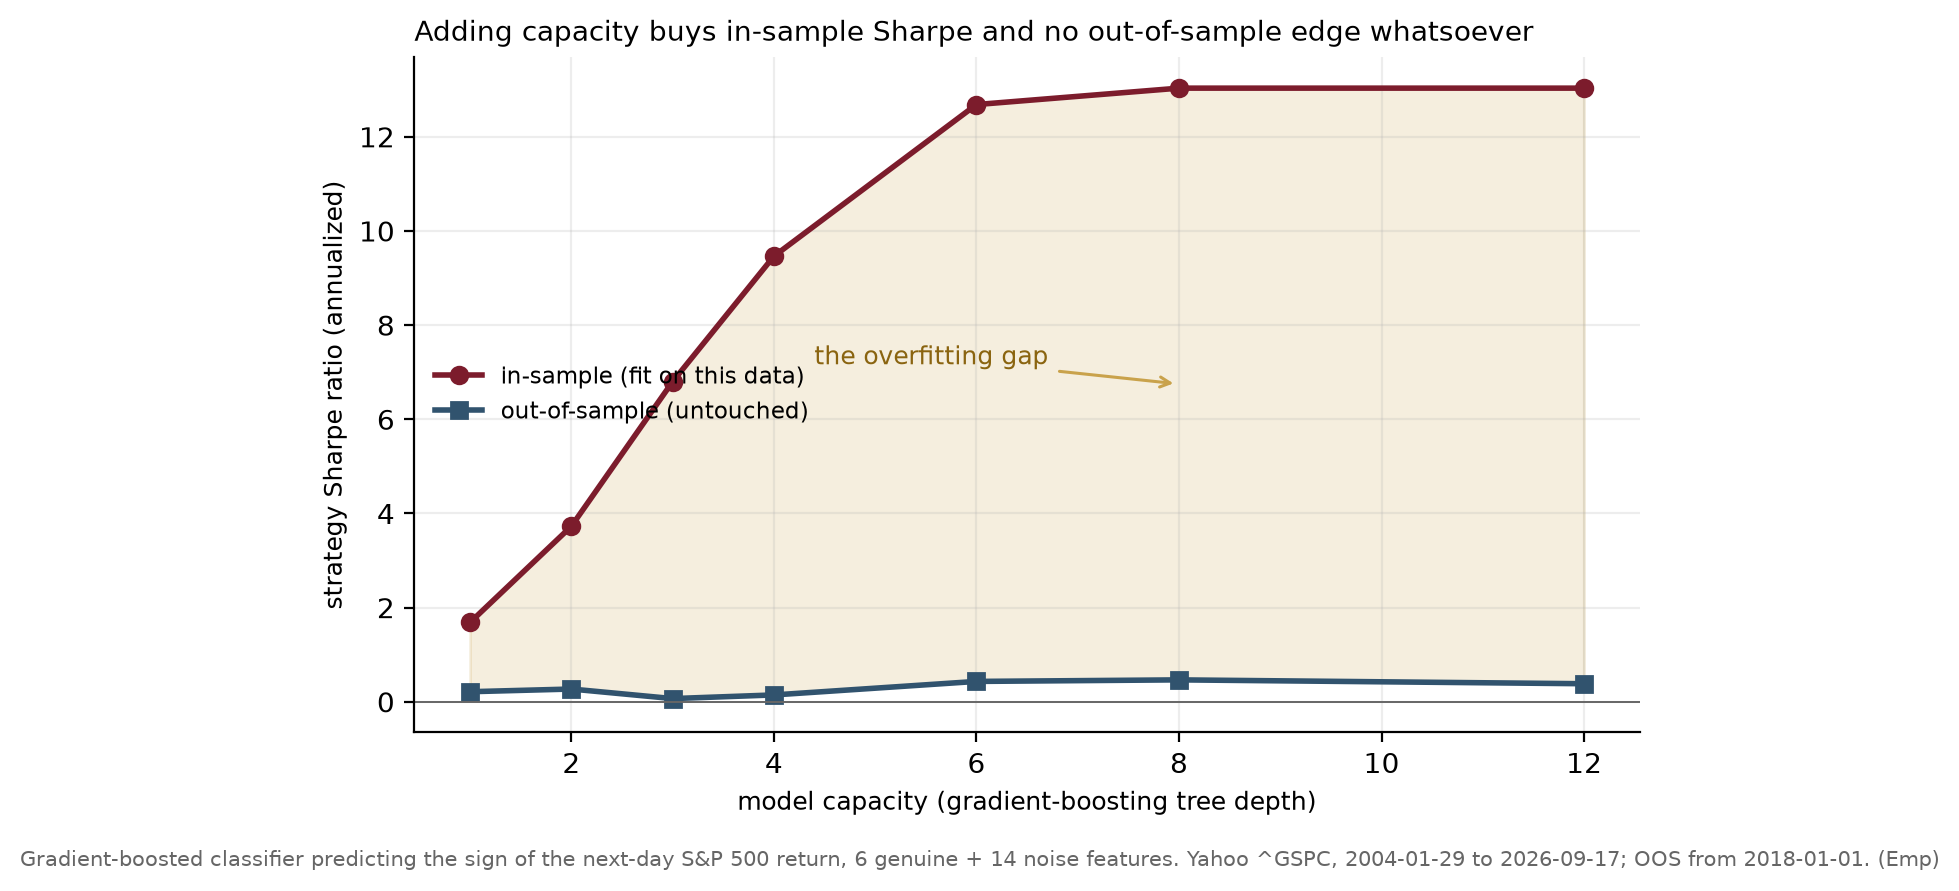
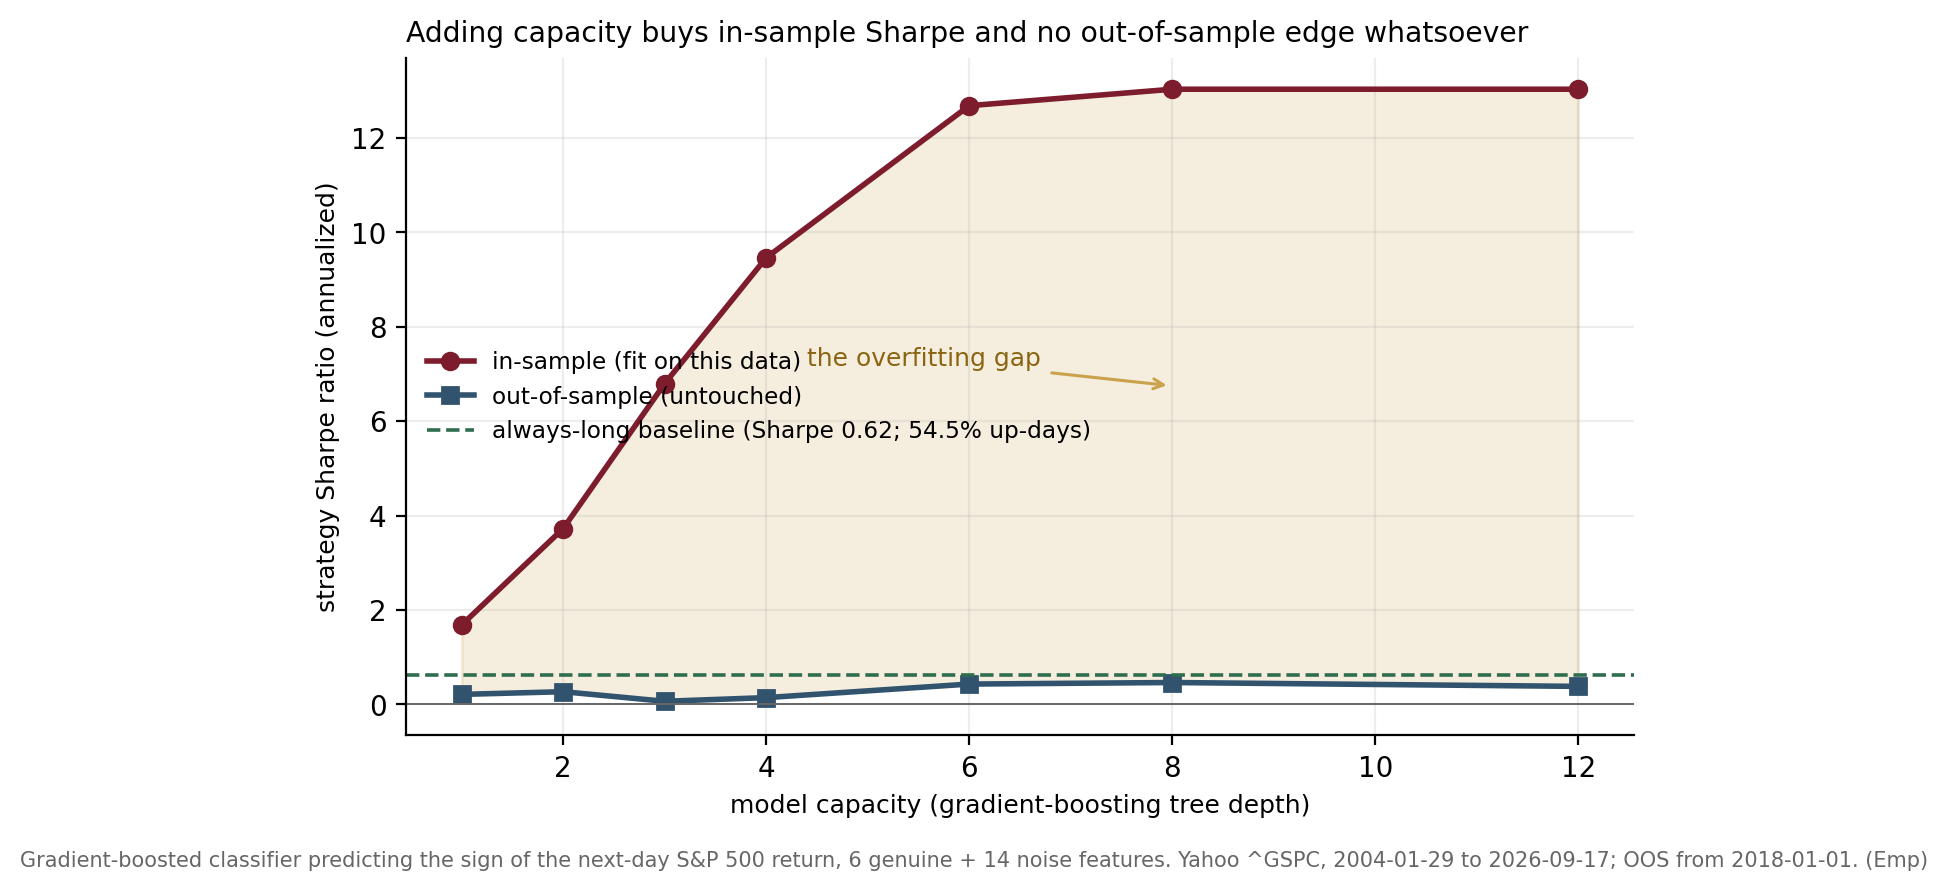
v1.2 Teil D + release: process fixes, ERRATA/KNOWN-ISSUES, version bump
- ERRATA.md: v1.2 section documenting P1-P5 (citations), R1-R11 (content),
  S1-S4 (guard & reproducibility), with the open items called out.
- KNOWN-ISSUES.md (new): open/disputed/won't-fix register with ID, paper,
  status, and reason — B12 (VIX vs ~12% ATM), the md<->tex divergence (C4),
  the Reg-NMS world-state policy, and the ~40 N10 findings (seed = T19 triage).
- README house rules: added "every claim about a source is checked against
  that source" (D3); the reproducibility rule now carries the 82/7/3 free-data
  count and defines reproducibility over printed numbers, not PNG bytes; links
  KNOWN-ISSUES.md.
- Figures rebuilt from free data: fig_multiple_testing.png (finite-N curve),
  fig_g3_overfit.png (always-long baseline). CBOE-snapshot figures are not
  regenerated here (they need the non-redistributed licensed snapshot).
- Version bump to v1.2 (2026-09-25): CITATION.cff, README, CHANGELOG (with an
  "audited by" line, D4); last_updated bumped on the 13 corrected papers.

diff --git a/ERRATA.md b/ERRATA.md
@@ -311,3 +311,95 @@ with the repository's own code on free data before being applied.
 *Not adopted from the second audit:* N8 (the "byte-identical" wording — flagged, not re-verified),
 N9 (Markdown and PDF agree on every *corrected* claim but differ in overall length), and the ~40
 open high-severity findings outside K1–K14 (N10), which remain a separate work item.
+
+---
+
+## v1.2 (2026-09-25) — corrections from a third external audit
+
+A third external audit re-cloned the repository at `v1.1` (tag `v1.1` = 9eab2d6), re-ran
+`make verify` and an independent check suite, recomputed every quoted number, and pulled the
+primary sources for each literature and world-state claim. Every item below was reproduced *by us*
+with the repository's own code, an independent recomputation, or a primary source with a URL and
+access date, and each is now guarded (recomputed, not merely grepped) in `prove_fixes.py` or
+`verify_listings.py`.
+
+### P. Literature citations (checked against the primary source)
+
+- **P1 · Technical Analysis §3, §8 (STW 1999).** "The 1992 result shrank once transaction costs and
+  data-snooping corrections were applied (Sullivan, Timmermann & White 1999)" conflated two findings.
+  Split: the transaction-cost caveat is **Bessembinder & Chan (1998)**; STW's best rule *survived*
+  White's Reality Check in-sample and failed only *out-of-sample* 1987–96. Evidence table refined.
+- **P2 · Technical Analysis §5 evidence table (Jegadeesh & Titman 1993).** Short-horizon index
+  mean-reversion was attributed to Jegadeesh & Titman (1993), which is the *intermediate-horizon
+  momentum* paper on single stocks. Re-attributed to **Jegadeesh (1990) / Lehmann (1990)**; the index
+  sign is declared our own measurement. References added.
+- **P3 · Flow Landscape §3.2 (Almgren et al. 2005).** "a power close to 0.6, consistent with the
+  square root" reversed the source, which *rejects* β = ½ at the 95% level in favour of a 3/5 power
+  (PDF, p. 20: "the square-root model β = 1/2 is rejected"). Reworded to "concave but steeper than
+  the square root."
+- **P4 · Dealer Flows / GEX §5.4 (Golez & Jackwerth 2012).** The paper's "pinning conditional on the
+  sign of dealer gamma (long gamma pins, short gamma anti-pins)" is not G&J's finding. G&J document
+  pinning at *serial-futures-option* expiry and *anti-cross-pinning* before *index-option* expiry,
+  driven by delta-hedge rebalancing and retail ITM reselling. Restated; the gamma-sign conditionality
+  is now marked a hypothesis from **Avellaneda & Lipkin (2003)**. Reference added.
+- **P5 · Dealer Flows / GEX §8 (0DTE share).** "0DTE at roughly 62% of SPX option volume year-to-date
+  through August 2026 (CBOE 2023)" is impossible from a 2023 source. Corrected to CBOE's record
+  **62.4% single-month share for August 2025** (Cboe Insights, 2 Sep 2025, accessed 25 Sep 2026);
+  reference added; the ~17% 2020 baseline stays with Cboe 2023.
+
+### R. Content errors (each recomputed)
+
+- **R1 · Macro Foundations §6 — yield-curve episodes.** Prose listed 1978, **1980**, 1988, 2000,
+  2005–06, 2019. The pre-committed rule dates 1978 (one 823-day episode, *no* separate 1980), 1988,
+  **1998** (lag 35 mo), 2000, 2005, a 2019 blip, and the open **2022** episode. Lag range 7→**35**
+  months; 2022 named as the counterexample. Matches `fig_e1_yield_curve.py`.
+- **R2 · Vol Modeling §8.4 — SVI butterfly.** "strictly positive everywhere" was a scan-range
+  artifact: with the printed params g(k) turns **negative in the extrapolated call wing**
+  (min ≈ −0.05 near k = 0.31, negative on k ∈ [0.18, 0.52]). Claim confined to the traded strikes;
+  `fig_svi_fit.py` now scans and plots the wing and labels it honestly.
+- **R3 · Greeks (third-order) §7 — gamma drift.** "+6.9% / day" mixed a per-**calendar**-day color
+  with a **trading**-day maturity. On one clock (trading days) the one-week gamma goes 0.141 → 0.158,
+  **+11.8%** per session; book mis-size +11.8%. `fig_to_worked_examples.py` revalues one trading day.
+- **R4 · Greeks (third-order) §7 — speed estimate.** "under-predicts the true 0.130" → **over**-predicts
+  (0.138 > 0.130).
+- **R5 · Greeks (second-order) §5 — ATM vomma sign.** "d₂ ≈ −d₁, product negative" holds only at the
+  *forward*-ATM. At the *spot*-ATM strike with r = 4% both d₁ (+0.12) and d₂ (+0.04) are positive, so
+  d₁·d₂ > 0 and vomma is tiny and **positive** (+0.00004) — consistent with the printed value.
+- **R6 · Backtesting §2.3 — expected-max Sharpe.** Attributed σ_SR·√(2 ln N) to Bailey et al. while
+  quoting ≈1.45, which is the finer **Bailey & López de Prado (2014)** finite-N value (1.46).
+  √(2 ln N) (1.66) is now given only as the asymptotic upper bound; finite-N curve added to Figure 1;
+  DSR reference added.
+- **R7 · Overfitting §9.1 — DSR autocorrelation.** `deflated_sharpe` never forwarded `rho` to `psr`,
+  so the Lo (2002) correction could not reach the DSR. Signature extended and `rho` forwarded;
+  `verify_listings.py` now checks DSR(ρ=0.2) < DSR(ρ=0).
+- **R8 · ML Strategy §2 — baseline.** 52% OOS accuracy is below the **54.5% majority-class
+  ("always-long") baseline** (OOS Sharpe 0.62), i.e. worse than no model, not "a coin flip with a
+  tailwind." `fig_g3_overfit.py` draws the baseline.
+- **R9 · Research §6.3 — vol-matched Sharpe.** Sharpe is scale-invariant, so "vol-matched Sharpe"
+  (0.945 vs 0.941) is just Sharpe; the real difference is the Calmar. Reworded (.md + .tex).
+- **R10 · Stale conclusions.** Research abstract now states C4 *fails* the pre-registered Clark-West
+  gate (.md + .tex); Macro Regimes §9.1 confined to the post-1990 subsample; Paper-to-Strategy §3.4
+  marks the fragility prior contested (Chen & Zimmermann); Backtesting §2.6 notes the gross Sharpe
+  was not significant to begin with.
+- **R11 · Greeks & Hedging §10 — vanna/charm identity.** The listing printed both as −0.00057
+  (5 places). Now printed to 6 places: vanna −0.000574, charm −0.000566. Added to
+  `verify_listings.py`.
+
+### S. Regression guard & reproducibility
+
+- **S1 · `prove_fixes.py` now recomputes.** The v1.2 numbers (R2/R3/R5/R6) are re-derived and
+  compared to the paper; the previously-unanchored v1.1 fixes **K1, K5, K8, K-M04, N5c** are now
+  anchored (26 → 41 checks).
+- **S2 · `verify_listings.py` coverage.** The L2-greeks-and-hedging listing is executed (R11), and a
+  coverage audit accounts for all nine papers with a python block (6 exercised / 1 network /
+  2 fragment) so coverage cannot silently regress.
+- **S3 · "byte-identical" retired (supersedes N8).** `requirements.txt` no longer claims byte-identical
+  PNGs — the committed PNGs were built across matplotlib 3.10.8 and 3.11.1, and PNG bytes depend on
+  the freetype build. Reproducibility is defined over the printed **numbers** (`make verify`).
+- **S4 · `.gitignore` snapshot paths.** Fixed the stale `03-options/04-volatility` paths to the
+  renumbered `02-options/03-volatility`, so the licensed CBOE snapshots are ignored again.
+
+*Open / not closed in v1.2:* the md↔tex divergence of the research paper (one-source build, tracked in
+`KNOWN-ISSUES.md`), the ~40 open findings outside K1–K14 (now listed in `KNOWN-ISSUES.md`), and
+B12 (VIX 17.7 vs the ~12% 30-day ATM read of §7, which needs the non-redistributed chain snapshot to
+resolve; also in `KNOWN-ISSUES.md`).

diff --git a/KNOWN-ISSUES.md b/KNOWN-ISSUES.md
@@ -1,0 +1,26 @@
+# Known issues
+
+Open items the authors already consider questionable or unresolved, kept visible on purpose. An
+[ERRATA.md](ERRATA.md) entry is a *fixed* error; a known issue is one that is **open, disputed, or a
+deliberate won't-fix**. Each entry carries an ID, the paper and section, the statement at issue, a
+status, and the reason. Papers reference an item inline as `[KI-…]`.
+
+Status legend: **open** (real, not yet fixed) · **disputed** (evidence points both ways) ·
+**wontfix** (acknowledged, deliberately not changed, with a reason) · **tracking** (structural work
+item).
+
+| ID | Paper · section | Issue | Status | Reason / plan |
+|---|---|---|---|---|
+| KI-01 | 03-volatility/L2-vol-surface-vix-complex §7 | The VIX (17.71 on 2026-09-16) is said to sit several points above the "~12% 30-day ATM SPX vol" of Figure 1, explained by skew alone. With VIX9D = 17.40 that day, a 30-day ATM of 12% implies a ~5.4-point skew premium, which is high (typical 2–4). | **open** | Cannot resolve without the licensed, non-redistributed CBOE chain snapshot. Fix: compare the snapshot timestamp and VIX at the *same* instant, recompute ATM-IV from the chain independently (VIX-strip vs ATM straddle), and split the gap into skew and residual. (Audit B12.) |
+| KI-02 | research/volatility-managed-strategies | The paper exists as two texts: `*.md` (14 sections, ~6,144 words) and `*.tex`/PDF (9 sections, ~5,455 words). They agree on the *corrected numbers* but differ in structure and length, so every fix must be made twice. | **tracking** | Move to one source: either `md → pandoc → PDF` with a template, or `.tex` as source with `.md` generated from it, and mark the other "draft, superseded". Corrected claims are kept in sync in the interim. (Audit C4.) |
+| KI-03 | Reg NMS world-state — 05-market-mechanics/L1-how-markets-move §3.1 | Any anchor on a real-world date (e.g. the Reg NMS half-cent tick compliance date) needs a dated source beside it or an expiry, or the regression guard will freeze a value the world has moved past. | **tracking** | Policy: world-state claims carry a URL + access date in `SOURCES` and are re-checked at each release, not pinned by a text anchor. |
+| KI-N10 | series-wide | ~40 open high-severity findings outside K1–K14, referenced in ERRATA (N10) as "a separate work item." A third-party check suite (T19) triaged 23 of them; the full triaged table is the intended seed for this list. | **open** | Import the T19 triage table here (ID, paper, statement, status, reason) and add an inline `[KI-…]` marker in each affected paper. Until imported, the count (~40) is disclosed but the items are not individually listed here. |
+
+## How this list is maintained
+
+- A new finding starts here as **open**. It moves to [ERRATA.md](ERRATA.md) when fixed and verified,
+  or to **wontfix** with a written reason.
+- An item is only marked fixed once it is reproduced by the repo's own code, an independent
+  recomputation, or a primary source — the same bar as ERRATA.
+- The count in the README's house rules and this table must agree; a bare "~40 open" with no list is
+  what this file exists to prevent.

diff --git a/README.md b/README.md
@@ -6,7 +6,7 @@ This library is a set of original scientific papers written by Jonas Löffler (`
 
 > **Disclaimer.** These are research and educational documents, **not investment advice**, not a recommendation or solicitation to trade any security, and not a statement of the views of any employer. Any rule or threshold shown (e.g. a volatility cut-off) is an illustration of a method, not a signal to act on. Trading options and derivatives involves substantial risk of loss. You are responsible for your own decisions.
 
-**Version & corrections.** Series **v1.1** (2026-09-24). Found errors are fixed in the open — see [CHANGELOG.md](CHANGELOG.md) and [ERRATA.md](ERRATA.md). Licensing: papers and figures under [CC BY 4.0](LICENSE); code under [MIT](LICENSE-CODE).
+**Version & corrections.** Series **v1.2** (2026-09-25). Found errors are fixed in the open — see [CHANGELOG.md](CHANGELOG.md) and [ERRATA.md](ERRATA.md). Licensing: papers and figures under [CC BY 4.0](LICENSE); code under [MIT](LICENSE-CODE).
 
 ## Difficulty badges
 
@@ -80,9 +80,10 @@ The library holds 25 papers. The core is a program of 22 documents across seven 
 ## House rules for the original papers
 
 - **No claim is "validated" without an out-of-sample test.** External sources make a claim *plausible*, never *confirmed*; only an own reproducible result with an OOS split earns the stronger word.
-- **Every empirical figure is reproducible** from free data (Yahoo, FRED, CBOE, CFTC) with the `figures/*.py` script beside it; downloaded data is cached so figures are stable offline.
+- **Every empirical *number* is reproducible** from free data (Yahoo, FRED, CBOE, CFTC) with the `figures/*.py` script beside it; downloaded data is cached so figures rebuild offline. Concretely, on an offline fresh clone `make verify` rebuilds **82 of 92** figures; **7** need a licensed CBOE option-chain snapshot (re-fetched at run time, not redistributed) and **3** need private or one-off inputs, and those are declared as `SKIPPED`. Reproducibility is defined over the printed **numbers**, not PNG bytes (which depend on the matplotlib/freetype build).
+- **Every claim about a source is checked against that source.** Any statement about a regulation, a market-structure fact, or another study is verified against the primary source, which is cited with a URL, an access date, and — where possible — the quoted passage of "what it actually finds." A source makes a claim *plausible*, never *confirmed*.
 - **Pre-registration and direction checks.** Effect sizes and out-of-sample splits are fixed before the test; the sign of the data is checked against the sign of the claim before the claim is made.
-- **Errata over silent edits.** When a number is wrong, it is corrected in [ERRATA.md](ERRATA.md), not quietly swapped.
+- **Errata over silent edits.** When a number is wrong, it is corrected in [ERRATA.md](ERRATA.md), not quietly swapped; open, disputed, and won't-fix items are listed in [KNOWN-ISSUES.md](KNOWN-ISSUES.md).
 - **Not investment advice.** These are research and educational documents.
 
 ## Data license

diff --git a/CHANGELOG.md b/CHANGELOG.md
@@ -4,6 +4,34 @@ All notable changes to the Trading Library paper series are recorded here.
 The series is versioned as a whole; corrections to individual claims are itemised
 in [ERRATA.md](ERRATA.md). Dates are ISO (YYYY-MM-DD).
 
+## v1.2 — 2026-09-25
+
+Corrections from a third independent audit (fresh clone of tag `v1.1` = 9eab2d6;
+`make verify` 82/10/0 offline and 89/3/0 online; an independent check suite;
+recomputation of every quoted number; primary sources pulled for each literature
+and world-state claim). Itemised in [ERRATA.md](ERRATA.md) as P1–P5 (citations),
+R1–R11 (content), S1–S4 (guard & reproducibility).
+
+- **Citations (P1–P5).** Five literature/source citations corrected against their
+  primary sources: STW 1999 (split from Bessembinder & Chan 1998), Jegadeesh &
+  Titman 1993 → Jegadeesh 1990 / Lehmann 1990, Almgren 2005 (rejects β=½),
+  Golez & Jackwerth 2012 (restated), and the 0DTE 62% share (CBOE, Aug 2025).
+- **Content (R1–R11).** Yield-curve episodes; SVI butterfly wing; gamma-drift
+  clock (+11.8%); ATM-vomma sign; speed over/under; Bailey–LdP finite-N Sharpe;
+  DSR autocorrelation pass-through; ML majority-class baseline (54.5%); vol-matched
+  Sharpe; four carried-through conclusions; vanna/charm print precision.
+- **Regression guard & reproducibility (S1–S4).** `prove_fixes.py` recomputes the
+  new numbers and anchors the previously-unguarded fixes (26 → 41 checks);
+  `verify_listings.py` gains the greeks-and-hedging listing and a 9-paper coverage
+  audit (17 → 21 checks); the "byte-identical" claim is retired; `.gitignore`
+  snapshot paths fixed.
+- **Process.** Added a source-checking house rule and [KNOWN-ISSUES.md](KNOWN-ISSUES.md)
+  (open/disputed/won't-fix, incl. the md↔tex divergence and the VIX/ATM item).
+- Series version → **v1.2**: `CITATION.cff`, `README.md`, and this file.
+
+*Audited by:* third external audit, 2026-09-25 — fresh clone, Python 3.11,
+pinned `requirements.txt`; check suite and recomputations reproduced by the author.
+
 ## v1.1 — 2026-09-24
 
 Corrections from a second independent audit, plus a re-verification of the first

diff --git a/05-market-mechanics/L3-flow-landscape.md b/05-market-mechanics/L3-flow-landscape.md
@@ -1,6 +1,6 @@
 ---
 title: "The Flow Landscape — Systematic & Dealer Flows in the Underlying"
-last_updated: 2026-09-20
+last_updated: 2026-09-25
 ---
 
 # The Flow Landscape — Systematic & Dealer Flows in the Underlying

diff --git a/06-macro-context/L2-macro-regimes-fundamentals.md b/06-macro-context/L2-macro-regimes-fundamentals.md
@@ -1,6 +1,6 @@
 ---
 title: "Macro Regimes, Fundamentals & the Reaction Function"
-last_updated: 2026-09-20
+last_updated: 2026-09-25
 ---
 
 # Macro Regimes, Fundamentals & the Reaction Function

diff --git a/02-options/L3-greeks-second-order.md b/02-options/L3-greeks-second-order.md
@@ -1,6 +1,6 @@
 ---
 title: "Second-Order Greeks — Gamma, Vanna, Charm, Vomma"
-last_updated: 2026-09-20
+last_updated: 2026-09-25
 ---
 
 # Second-Order Greeks — Gamma, Vanna, Charm, Vomma

diff --git a/02-options/L3-greeks-third-order.md b/02-options/L3-greeks-third-order.md
@@ -1,6 +1,6 @@
 ---
 title: "Third-Order Greeks — Speed, Zomma, Color, Ultima"
-last_updated: 2026-09-20
+last_updated: 2026-09-25
 ---
 
 # Third-Order Greeks — Speed, Zomma, Color, Ultima

diff --git a/07-algo-development/L2-paper-to-strategy.md b/07-algo-development/L2-paper-to-strategy.md
@@ -1,6 +1,6 @@
 ---
 title: "From Paper to Strategy — Anomalies & Replication"
-last_updated: 2026-09-20
+last_updated: 2026-09-25
 ---
 
 # From Paper to Strategy — Anomalies & Replication

diff --git a/06-macro-context/L1-macro-foundations.md b/06-macro-context/L1-macro-foundations.md
@@ -1,6 +1,6 @@
 ---
 title: "Macro Foundations — What Moves the Whole Market"
-last_updated: 2026-09-20
+last_updated: 2026-09-25
 ---
 
 # Macro Foundations — What Moves the Whole Market

diff --git a/03-volatility/L3-vol-modeling-vrp.md b/03-volatility/L3-vol-modeling-vrp.md
@@ -1,6 +1,6 @@
 ---
 title: "Volatility Modeling & the Variance Risk Premium"
-last_updated: 2026-09-20
+last_updated: 2026-09-25
 ---
 
 # Volatility Modeling & the Variance Risk Premium

diff --git a/04-quant/L3-overfitting-calibration.md b/04-quant/L3-overfitting-calibration.md
@@ -1,6 +1,6 @@
 ---
 title: "Overfitting Control & Forecast Calibration"
-last_updated: 2026-09-20
+last_updated: 2026-09-25
 ---
 
 # Overfitting Control & Forecast Calibration
